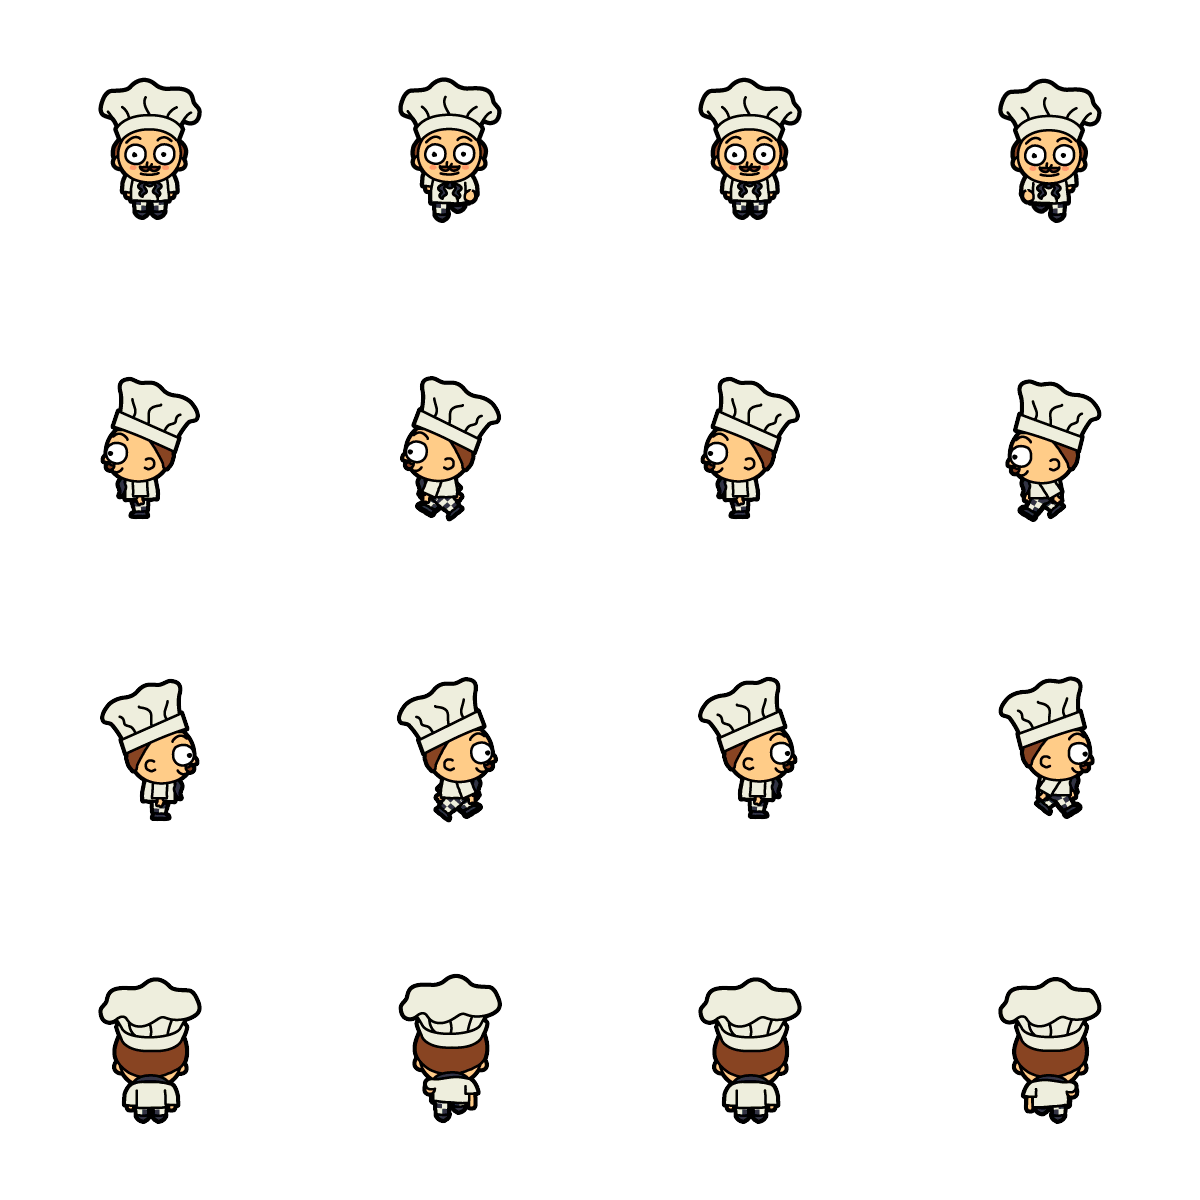
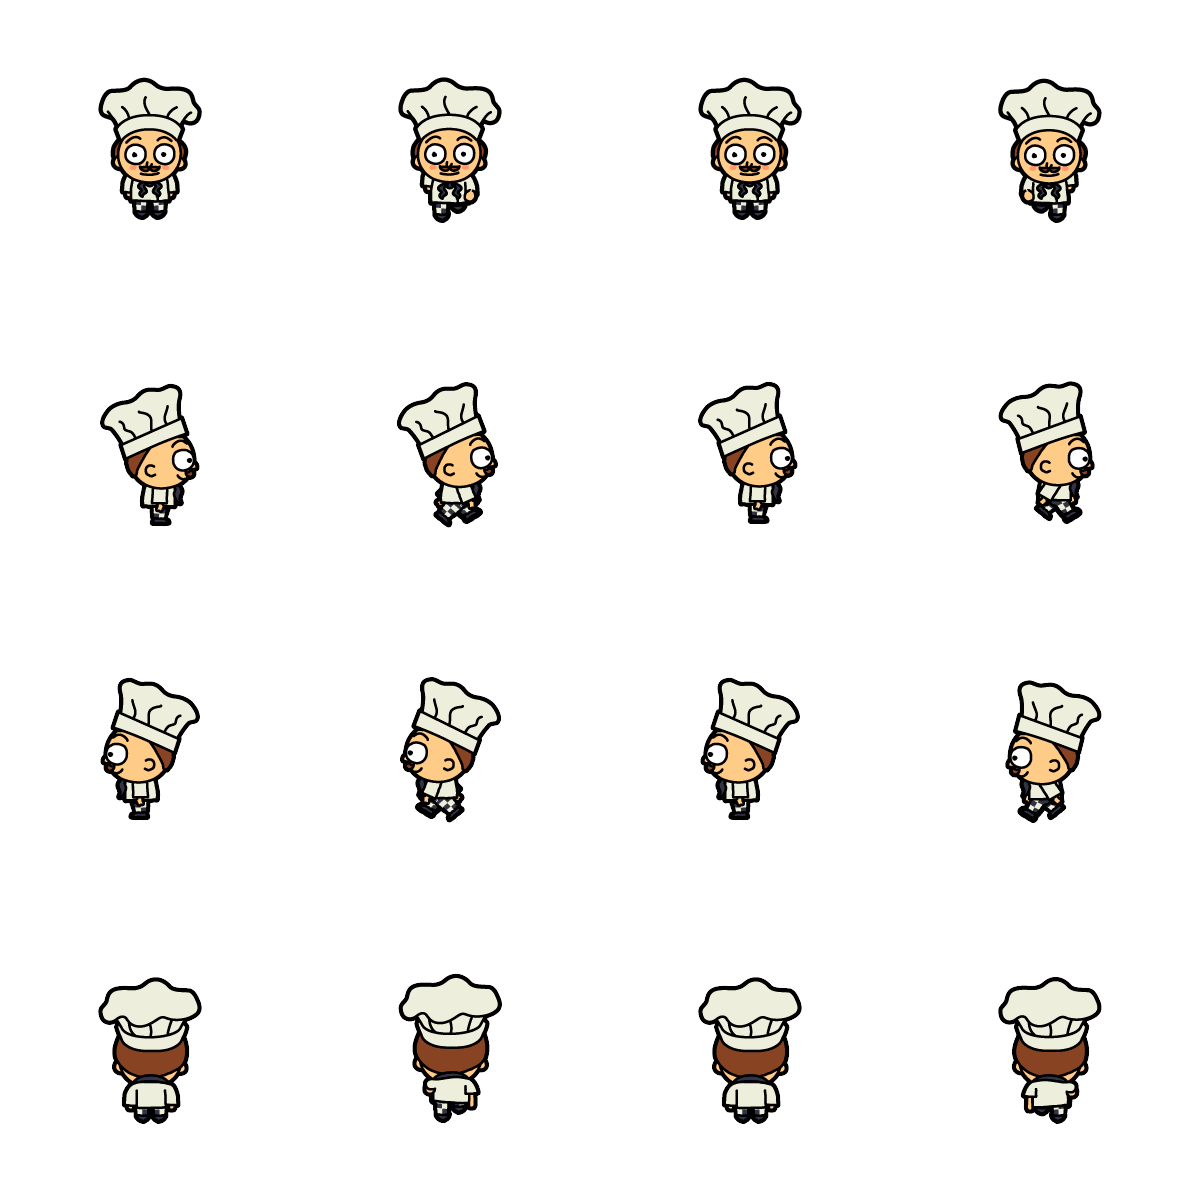
Animation Movement

diff --git a/CE_Game_MediumRare/Player.cpp b/CE_Game_MediumRare/Player.cpp
@@ -1,0 +1,72 @@
+#include "Player.h"
+
+Player::Player(sf::Texture* texture, sf::Vector2u imageCount, float switchTime, float speed) :
+	animation(texture,imageCount,switchTime)
+{
+	this->speed = speed;
+	row = 0;
+	faceRight = true;
+
+	body.setSize(sf::Vector2f(200.0f, 200.0f));
+	body.setPosition(206.0f, 206.0f);
+	body.setTexture(texture);
+}
+
+Player::~Player()
+{
+}
+
+void Player::Update(float deltatime)
+{
+	sf::Vector2f movement(0.0f, 0.0f);
+
+	if (sf::Keyboard::isKeyPressed(sf::Keyboard::A))
+	{
+		movement.x -= speed * deltatime;
+	}
+	if (sf::Keyboard::isKeyPressed(sf::Keyboard::D))
+	{
+		movement.x += speed * deltatime;
+	}
+	if (sf::Keyboard::isKeyPressed(sf::Keyboard::W))
+	{
+		movement.y -= speed * deltatime;
+	}
+	if (sf::Keyboard::isKeyPressed(sf::Keyboard::S))
+	{
+		movement.y += speed * deltatime;
+	}
+
+	if (movement.y > 0.0f)
+	{
+		row = 0;
+	}
+	else if (movement.x != 0.0f)
+	{
+		row = 1;
+
+		if (movement.x > 0.0f)
+		{
+			faceRight = true;
+		}
+		else
+		{
+			faceRight = false;
+		}
+
+		
+	}
+	else if(movement.y < 0.0f)
+	{
+		row = 3;
+	}
+
+	animation.Update(row, deltatime, faceRight);
+	body.setTextureRect(animation.uvRect);
+	body.move(movement);
+}
+
+void Player::Draw(sf::RenderWindow& window)
+{
+	window.draw(body);
+}

diff --git a/CE_Game_MediumRare/Animation.cpp b/CE_Game_MediumRare/Animation.cpp
@@ -17,7 +17,7 @@ Animation::~Animation()
 {
 }
 
-void Animation::Update(int row, float deltaTime)
+void Animation::Update(int row, float deltaTime, bool faceRight)
 {
 	currentImage.y = row;
 	totalTime += deltaTime;
@@ -33,6 +33,17 @@ void Animation::Update(int row, float deltaTime)
 		}
 	}
 
-	uvRect.left = currentImage.x * uvRect.width;
 	uvRect.top = currentImage.y * uvRect.height;
+	if (faceRight)
+	{
+		uvRect.left = currentImage.x * uvRect.width;
+		uvRect.width = abs(uvRect.width);
+
+	}
+	else
+	{
+		uvRect.left = (currentImage.x + 1) * abs(uvRect.width);
+		uvRect.width = -abs(uvRect.width);
+	}
+	
 }

diff --git a/CE_Game_MediumRare/Player.h b/CE_Game_MediumRare/Player.h
@@ -1,0 +1,21 @@
+#pragma once
+#include "SFML/Graphics.hpp"
+#include "Animation.h";
+
+class Player
+{
+public:
+	Player(sf::Texture* texture, sf::Vector2u imageCount, float switchTime, float speed);
+	~Player();
+
+	void Update(float deltatime);
+	void Draw(sf::RenderWindow& window);
+private:
+	sf::RectangleShape body;
+	Animation animation;
+	unsigned int row;
+	float speed;
+	bool faceRight;
+
+};
+

diff --git a/CE_Game_MediumRare/Animation.h b/CE_Game_MediumRare/Animation.h
@@ -12,7 +12,7 @@ public:
 	Animation(sf::Texture* texture,sf::Vector2u imageCount, float switchTime);
 	~Animation();
 
-	void Update(int row, float deltaTime);
+	void Update(int row, float deltaTime, bool faceRight);
 public:
 	sf::IntRect uvRect;
 private:
